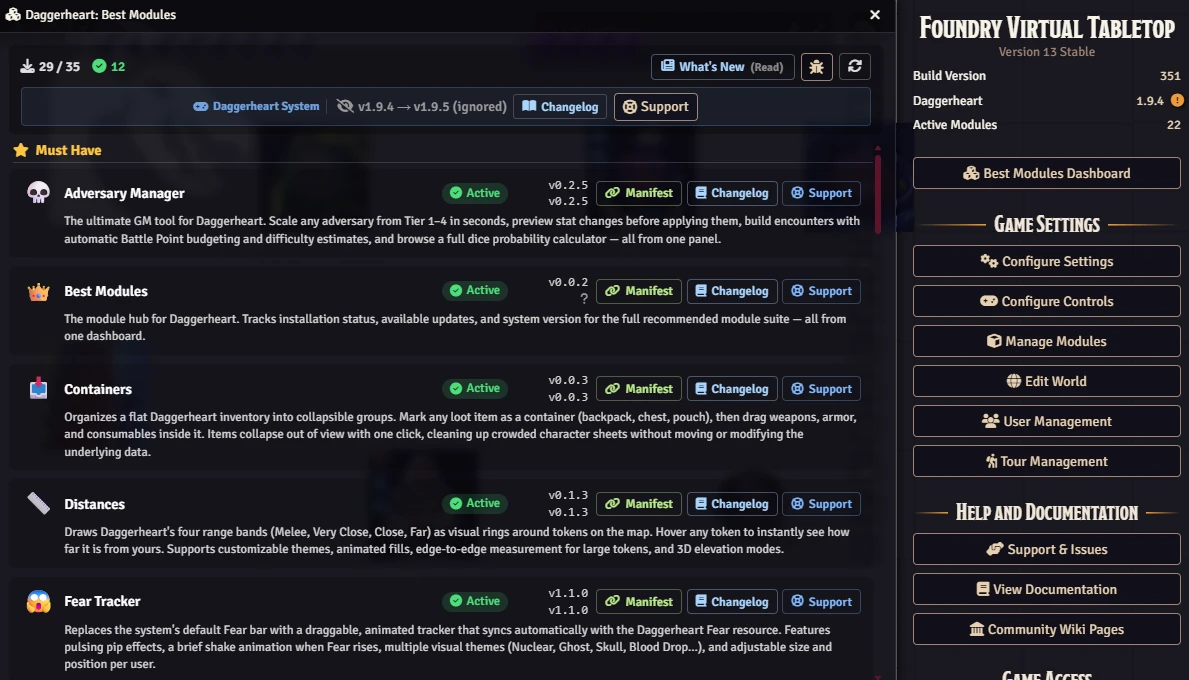
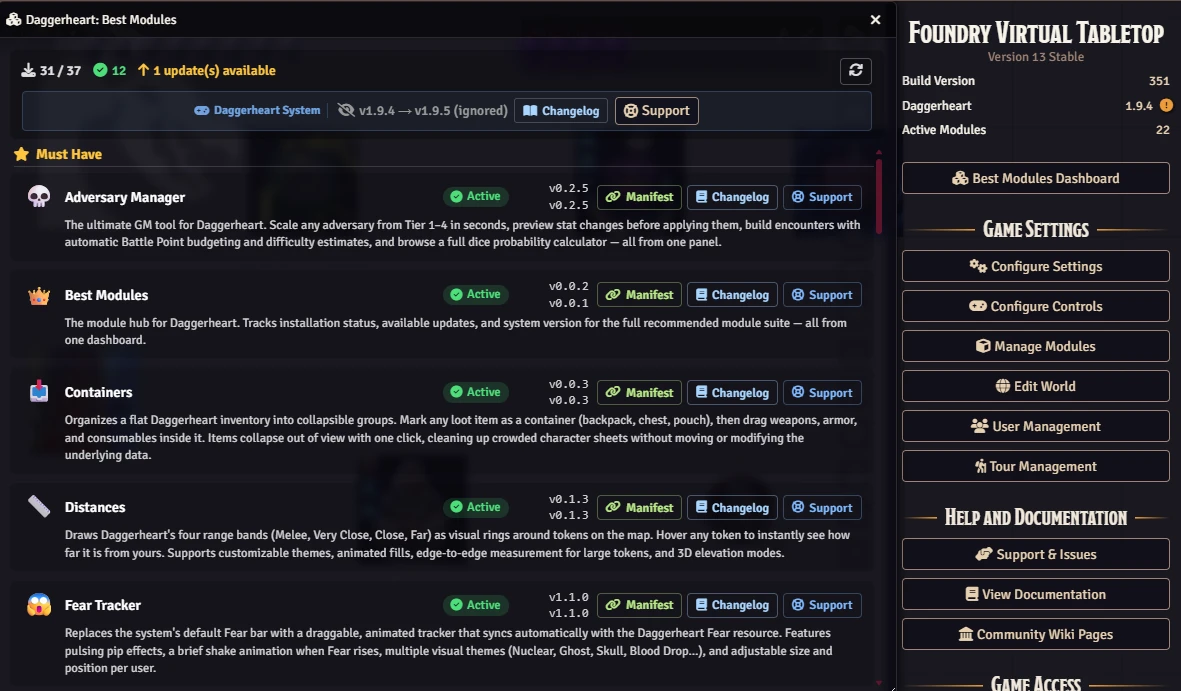
0.0.2

diff --git a/scripts/modules-app.js b/scripts/modules-app.js
@@ -197,15 +197,23 @@ export class ModulesListApp extends foundry.applications.api.HandlebarsApplicati
       .filter((m) => m.category === CATEGORY.RECOMMENDED)
       .sort(sortByTitle);
 
-    // Third-party DH and generic third-party modules are always shown in full view; excluded from the uninstalled/updates-only views
-    const thirdPartyDH = (this.showAll && !this.filterUpdatesOnly
-      ? allStatuses.filter((m) => m.category === CATEGORY.THIRD_PARTY_DH)
-      : []
+    // Third-party modules are shown in full view; also shown in filterUpdatesOnly mode when they
+    // have available updates — since they may be the reason the dashboard auto-opened on world load.
+    // Excluded only from the uninstalled-only view (showAll: false, filterUpdatesOnly: false).
+    const thirdPartyDH = (
+      this.showAll && !this.filterUpdatesOnly
+        ? allStatuses.filter((m) => m.category === CATEGORY.THIRD_PARTY_DH)
+        : this.filterUpdatesOnly
+          ? allStatuses.filter((m) => m.category === CATEGORY.THIRD_PARTY_DH && m.installed && m.hasUpdate)
+          : []
     ).sort(sortByTitle);
 
-    const thirdParty = (this.showAll && !this.filterUpdatesOnly
-      ? allStatuses.filter((m) => m.category === CATEGORY.THIRD_PARTY)
-      : []
+    const thirdParty = (
+      this.showAll && !this.filterUpdatesOnly
+        ? allStatuses.filter((m) => m.category === CATEGORY.THIRD_PARTY)
+        : this.filterUpdatesOnly
+          ? allStatuses.filter((m) => m.category === CATEGORY.THIRD_PARTY && m.installed && m.hasUpdate)
+          : []
     ).sort(sortByTitle);
 
     // Add view flags to each module for template access

diff --git a/CHANGELOG.md b/CHANGELOG.md
@@ -2,3 +2,6 @@
 
 ## [Added]
 - Added `daggerheart-plus` and `daggerheart-sleek-ui` to the Third Party – Daggerheart module list.
+
+## [Fixed]
+- Third-party modules with pending updates are now visible when the dashboard auto-opens in updates-only mode. Previously, a third-party update would trigger the auto-open but the module would not be rendered, showing a misleading "All recommended modules are installed!" empty state.
